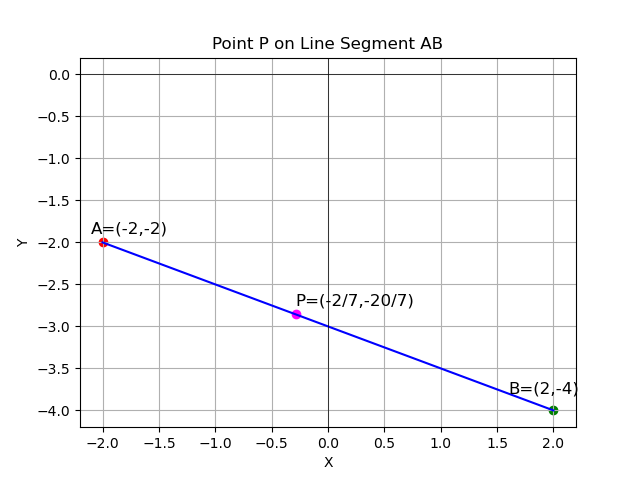
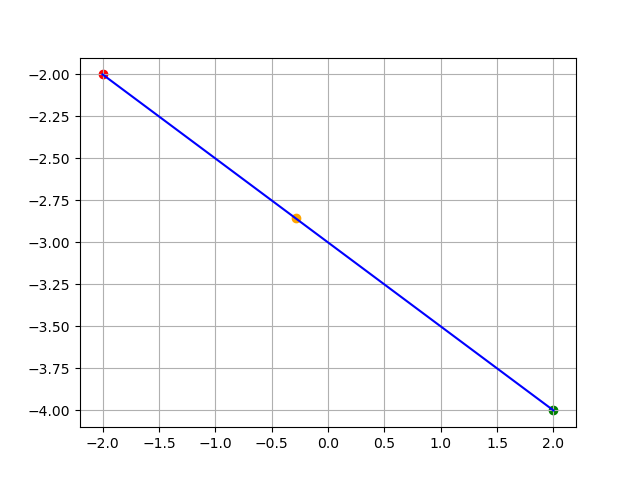
file

diff --git a/Assignment2/code/funcs.py b/Assignment2/code/funcs.py
@@ -1,0 +1,94 @@
+#Code by GVV Sharma
+#December 7, 2019
+#Revised July 15, 2020
+#released under GNU GPL
+#Functions related to line
+import numpy as np
+import mpmath as mp
+
+def dir_vec(A,B):
+  return B-A
+
+def norm_vec(A,B):
+  return omat@dir_vec(A,B)
+  #return np.matmul(omat, dir_vec(A,B))
+
+def ang_vec(m1,m2):
+    return mp.acos(float((m1.T@m2)/(np.linalg.norm(m1)*np.linalg.norm(m2))))
+
+#Generate line points
+def line_gen(A,B):
+  len =10
+  dim = A.shape[0]
+  x_AB = np.zeros((dim,len))
+  lam_1 = np.linspace(0,1,len)
+  for i in range(len):
+    temp1 = A + lam_1[i]*(B-A)
+    x_AB[:,i]= temp1.T
+  return x_AB
+
+#Generating line in 2D using normal form
+def line_norm(n,c,k1,k2):
+    if c==0:
+        A = np.zeros((2,1))
+    elif np.array_equal(n, e1):
+        A = np.array(([c, 0])).reshape(-1,1) 
+    elif np.array_equal(n, e2):
+        A = np.array(([0, c])).reshape(-1,1) 
+    else:
+        A = np.array(([c/n[0][0], 0])).reshape(-1,1) 
+    m = omat@n
+    return line_dir_pt(m,A,k1,k2)
+
+
+#Generating line using parametric form
+def line_dir_pt(m,A,k1,k2):
+  len = 10
+  dim = A.shape[0]
+  x_AB = np.zeros((dim,len))
+  lam_1 = np.linspace(k1,k2,len)
+  for i in range(len):
+    temp1 = A + lam_1[i]*m
+    x_AB[:,i]= temp1.T
+  return x_AB
+
+#Intersection of two lines
+def line_isect(n1,c1,n2,c2):
+  N=np.block([n1,n2]).T
+  p = np.zeros((2,1))
+  p[0] = c1
+  p[1] = c2
+  #Intersection
+  P=np.linalg.solve(N,p)
+  return P
+
+#Intersection of two lines
+def line_intersect(n1,A1,n2,A2):
+  N=np.block([n1,n2]).T
+  p = np.zeros((2,1))
+  p[0] = n1.T@A1
+  p[1] = n2.T@A2
+  #Intersection
+  P=np.linalg.solve(N,p)
+  return P
+
+
+#Foot of the perpendicular
+def perp_foot(n,c,P):
+  m = omat@n
+  N=np.block([m,n])
+  p = np.zeros((2,1))
+  p[0][0] = m.T@P
+  p[1][0] = c
+  #Intersection
+  x_0=np.linalg.solve(N.T,p)
+  return x_0
+
+#Rotation matrix
+def rotmat(theta):
+    #c = float(mp.cos(theta))
+    #s = float(mp.sin(theta))
+    c = np.cos(theta)
+    s = np.sin(theta)
+    P = np.array([[c,-s],[s,c]]) 
+    return P

diff --git a/Assignment2/code/Mat.py b/Assignment2/code/Mat.py
@@ -1,43 +1,19 @@
 import numpy as np
 import matplotlib.pyplot as plt
-
-def dir_vec(A,B):
-    return B-A
-
-def line_gen(A,B):
-    len = 10
-    dim = A.shape[0]
-    x_AB = np.zeros((dim,len))
-    lam_1 = np.linspace(0,1,len)
-    for i in range(len):
-        temp1 = A + lam_1[i]*(B-A)
-        x_AB[:,i]= temp1.T
-    return x_AB
+from funcs import * 
 
 A = np.array([-2, -2])
 B = np.array([2, -4])
 
-
 AB = dir_vec(A, B)
-
-ratio = 3 / 7
-P = A + ratio * AB
+P = A + (3 / 7) * AB
 
 x_AB = line_gen(A, B)
 
 plt.plot(x_AB[0,:], x_AB[1,:], label="Line AB", color='blue')
 plt.scatter(A[0], A[1], color='red', label="Point A (-2,-2)")
 plt.scatter(B[0], B[1], color='green', label="Point B (2,-4)")
-plt.scatter(P[0], P[1], color='magenta', label=f"Point P ({P[0]:.2f},{P[1]:.2f})")
-
-plt.text(A[0] - 0.1, A[1] + 0.1, 'A=(-2,-2)', fontsize=12)
-plt.text(B[0] - 0.4, B[1] + 0.2, 'B=(2,-4)', fontsize=12)
-plt.text(P[0] , P[1] + 0.1, 'P=(-2/7,-20/7)', fontsize=12)
-
-plt.xlabel('X')
-plt.ylabel('Y')
-plt.axhline(0, color='black',linewidth=0.5)
-plt.axvline(0, color='black',linewidth=0.5)
+plt.scatter(P[0], P[1], color='orange', label=f"Point P ({P[0]:.2f},{P[1]:.2f})")
 plt.grid(True)
-plt.title('Point P on Line Segment AB')
 plt.savefig('/home/akshay-teja-kondi/gvv/Assignment2/Figs/Fig.png')
+
